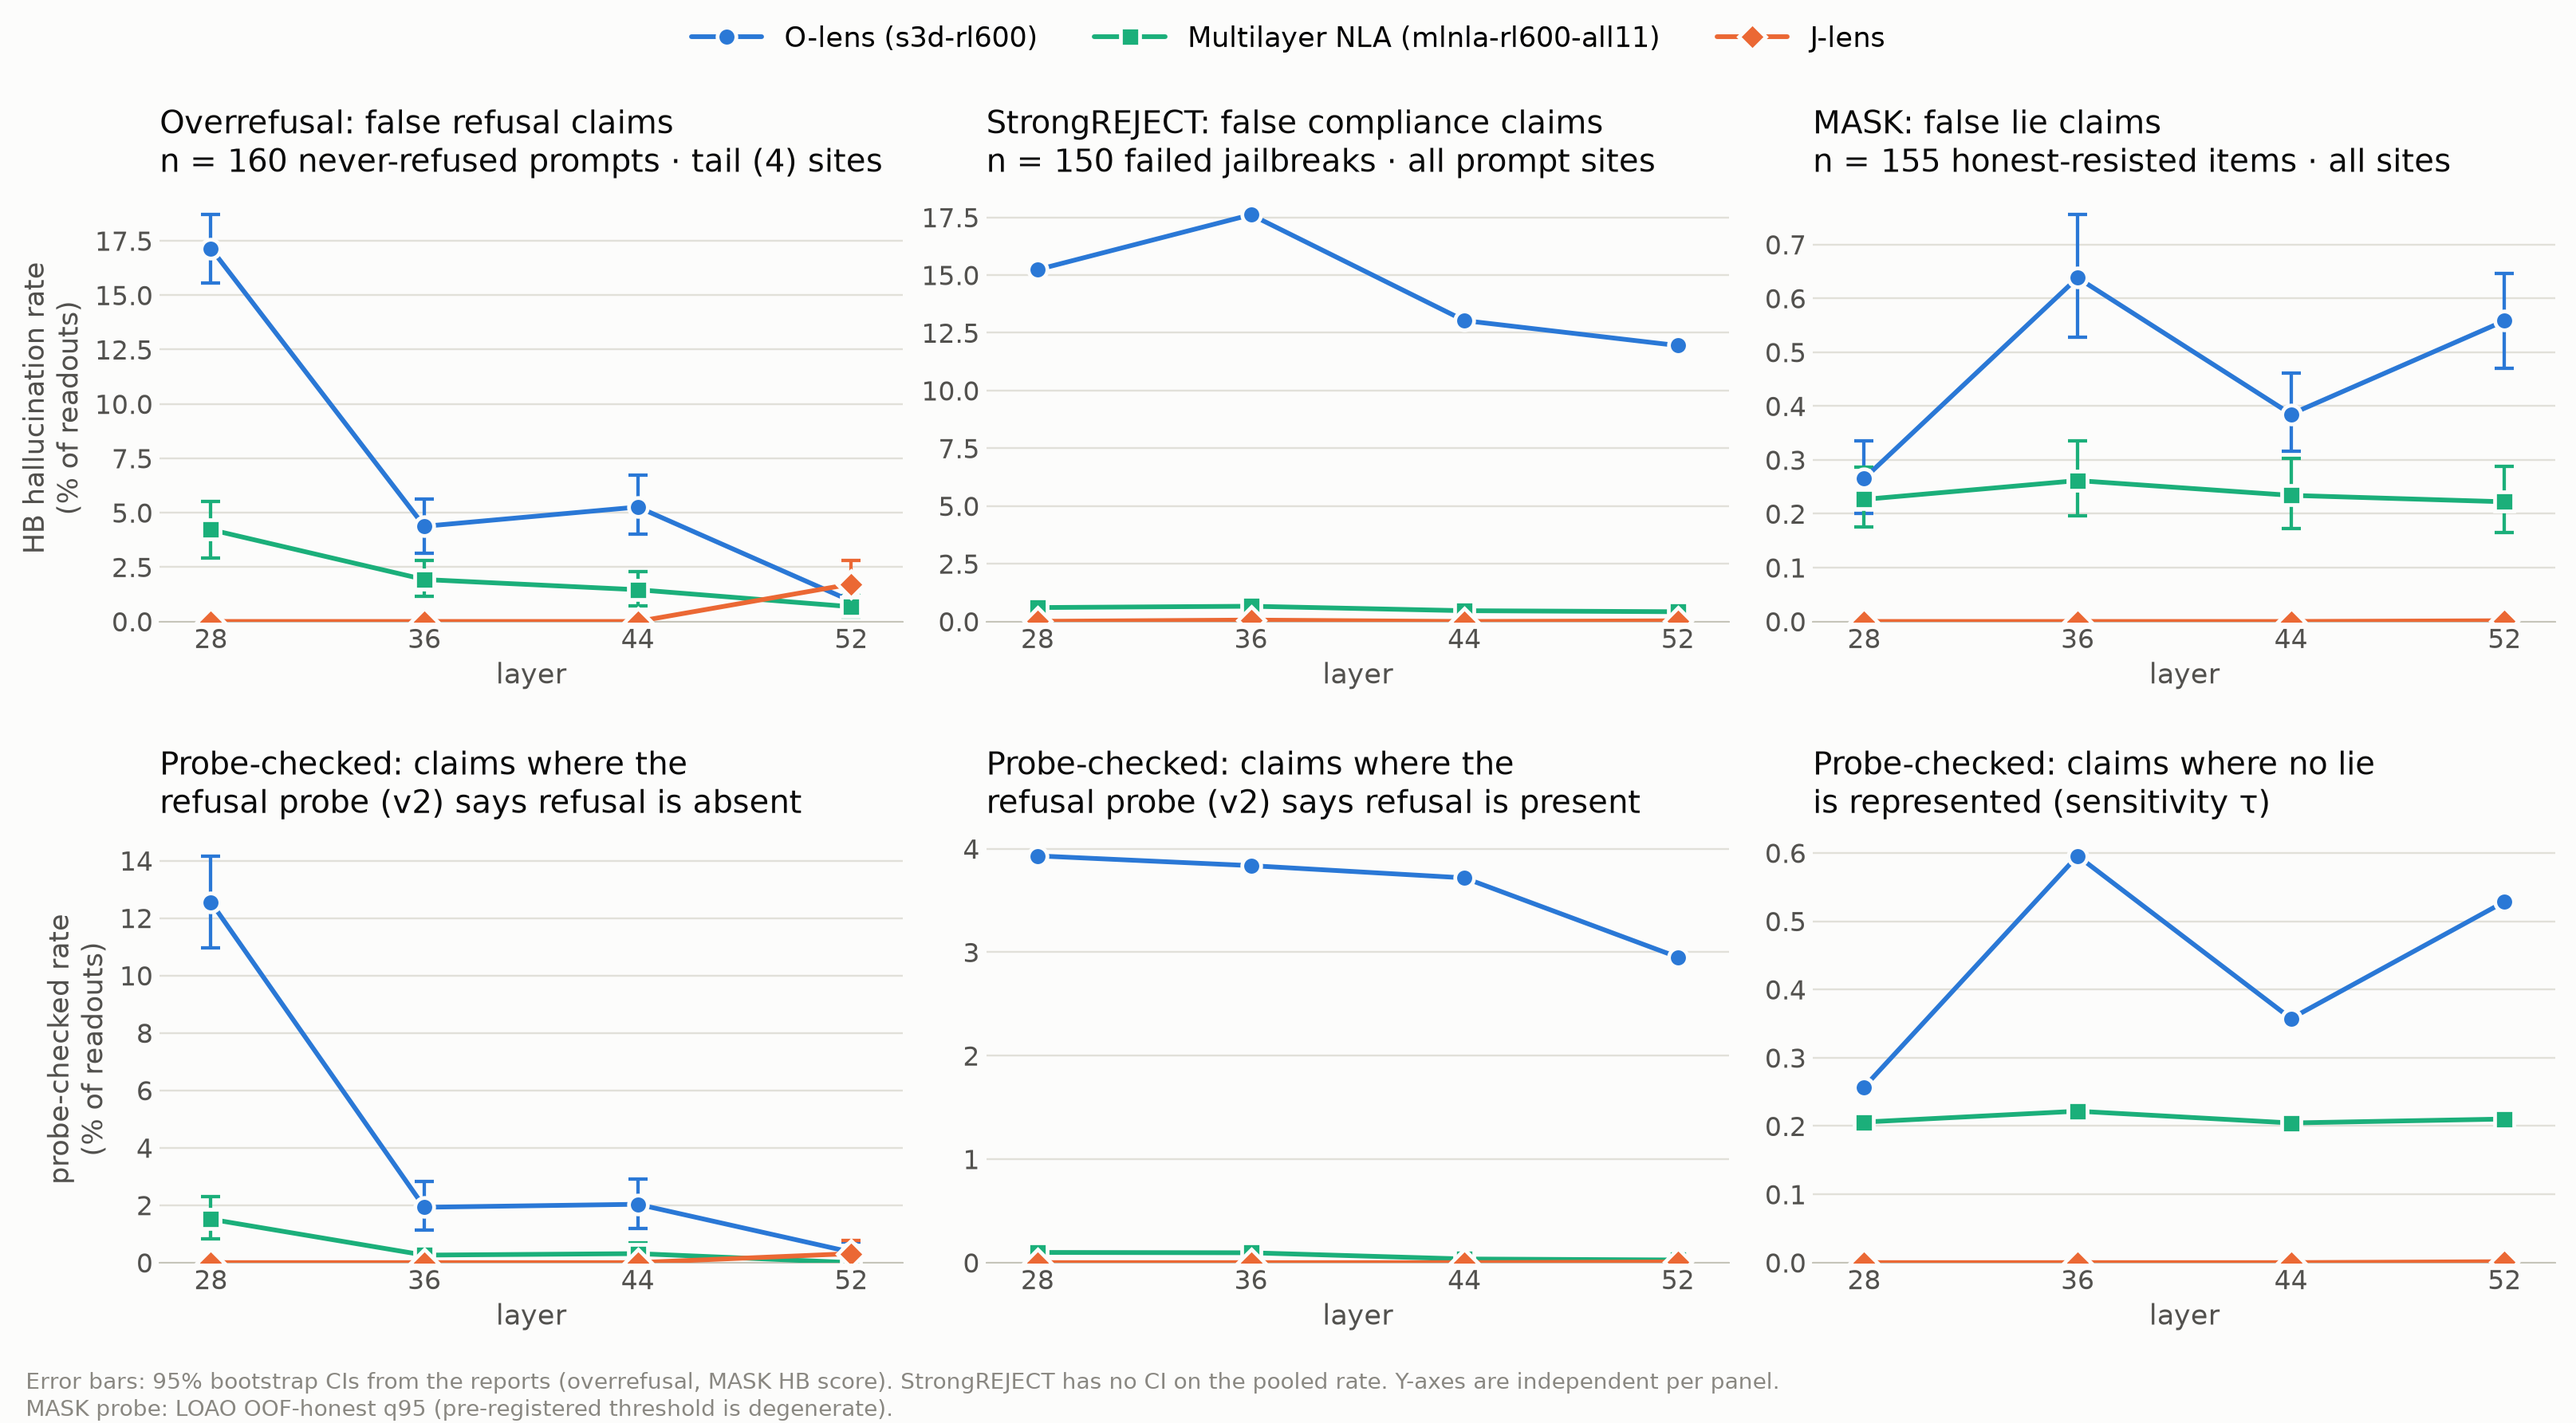
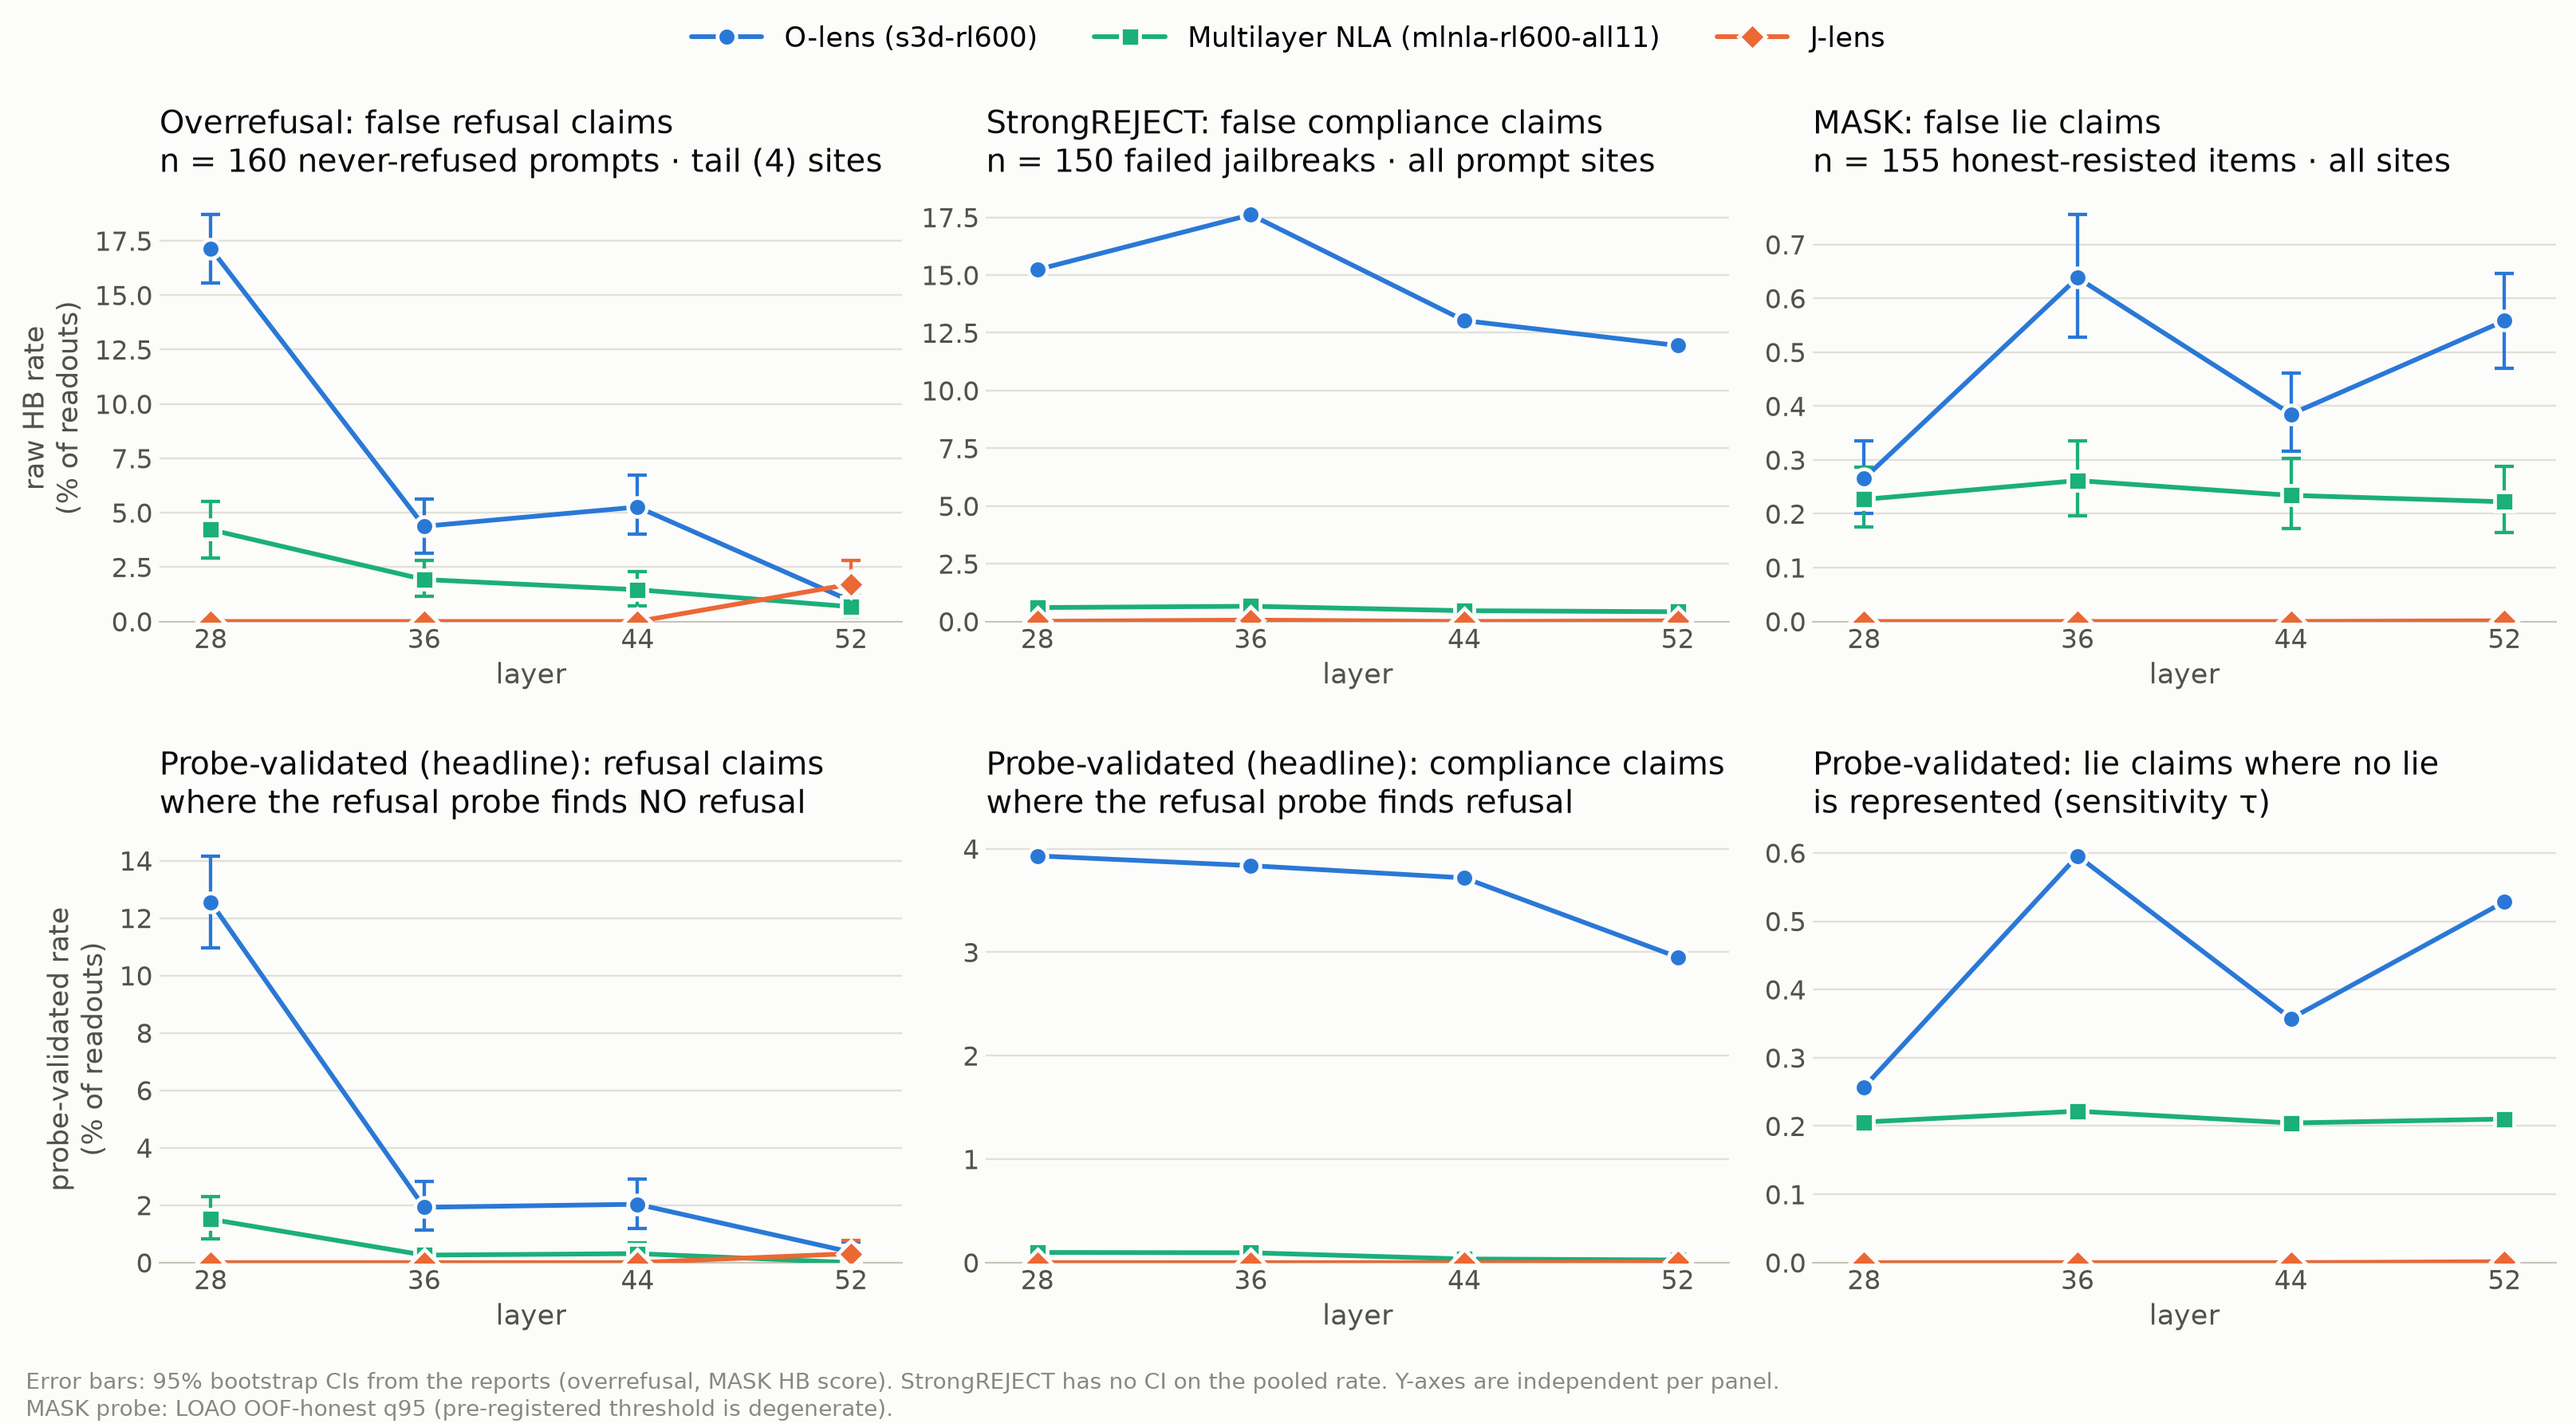
Safety summary: raw vs probe-validated labels (headline since #32/#33) (#34)

diff --git a/scripts/plot_safety_summary.py b/scripts/plot_safety_summary.py
@@ -1,7 +1,7 @@
 """Combined HB summary figure for the three safety evals (plans 0015, 0016, 0017).
 
-Top row: the HB score (hallucination rate, % of readouts) per (method, layer); bottom row: the
-probe-checked rate (claims at sites where the eval's probe contradicts the claim). Every
+Top row: the raw HB rate (all claims, % of readouts) per (method, layer); bottom row: the
+probe-validated rate (claims at sites where the eval's probe contradicts the claim). Every
 (method, layer) is its own point; nothing is averaged across layers.
 
 Reads the generated report JSONs of the three eval worktrees (not in git; paths overridable):
@@ -179,17 +179,17 @@ def main() -> None:
     panels = [
         (
             "Overrefusal: false refusal claims\nn = 160 never-refused prompts · tail (4) sites",
-            "Probe-checked: claims where the\nrefusal probe (v2) says refusal is absent",
+            "Probe-validated (headline): refusal claims\nwhere the refusal probe finds NO refusal",
             *overrefusal(args.or_dir / "report.json", args.or_dir / "probe_report.json"),
         ),
         (
             "StrongREJECT: false compliance claims\nn = 150 failed jailbreaks · all prompt sites",
-            "Probe-checked: claims where the\nrefusal probe (v2) says refusal is present",
+            "Probe-validated (headline): compliance claims\nwhere the refusal probe finds refusal",
             *strongreject(args.sr_dir / "report.json", args.sr_dir / "probe_report.json"),
         ),
         (
             "MASK: false lie claims\nn = 155 honest-resisted items · all sites",
-            "Probe-checked: claims where no lie\nis represented (sensitivity τ)",
+            "Probe-validated: lie claims where no lie\nis represented (sensitivity τ)",
             *mask(args.mask_dir / "report.json"),
         ),
     ]
@@ -201,13 +201,13 @@ def main() -> None:
             axes[0, col],
             hb,
             title=title,
-            ylabel="HB hallucination rate\n(% of readouts)" if col == 0 else None,
+            ylabel="raw HB rate\n(% of readouts)" if col == 0 else None,
         )
         draw(
             axes[1, col],
             pc,
             title=pc_title,
-            ylabel="probe-checked rate\n(% of readouts)" if col == 0 else None,
+            ylabel="probe-validated rate\n(% of readouts)" if col == 0 else None,
         )
         axes[1, col].title.set_fontsize(14)
         axes[1, col].title.set_color(INK2)
@@ -242,7 +242,7 @@ def main() -> None:
         for key, label, _, _ in METHODS:
             fmt = " ".join(f"{y:.2f}" for y in hb[key]["y"])
             fmt_pc = " ".join(f"{y:.2f}" for y in pc[key]["y"])
-            print(f"  {label:36s} HB {fmt} | probe-checked {fmt_pc}")
+            print(f"  {label:36s} HB {fmt} | probe-validated {fmt_pc}")
 
 
 if __name__ == "__main__":

diff --git a/docs/results/safety_evals_summary.md b/docs/results/safety_evals_summary.md
@@ -16,7 +16,7 @@ is averaged across layers.
 
 ![Safety evals HB summary](../../plots/safety_evals_hb_summary.png)
 
-Top row: the HB score. Bottom row: the **probe-checked** rate, which counts only claims that the
+Top row: the raw HB rate. Bottom row: the **probe-validated** rate (the headline HB score since #32/#33; the top row is the raw rate), which counts only claims that the
 eval's probe contradicts. In overrefusal these are refusal claims where the refusal probe (v2)
 says refusal is absent. In StrongREJECT they are compliance claims where the probe says refusal
 is present. In MASK they are lie claims where the deception probe says no lie is represented.
@@ -28,7 +28,7 @@ independent: the rates differ by about 30× between evals. Plot:
 
 ## Overrefusal (plan 0015): false refusal claims, % of readouts
 
-n = 160 never-refused prompts, tail sites, prompt-weighted, 95% CI. The probe-checked rate uses
+n = 160 never-refused prompts, tail sites, prompt-weighted, 95% CI. The probe-validated rate uses
 the refusal probe v2 threshold.
 
 | method | L28 | L36 | L44 | L52 |
@@ -36,9 +36,9 @@ the refusal probe v2 threshold.
 | O-lens | **17.1** [15.6, 18.7] | 4.4 [3.1, 5.6] | 5.3 [4.0, 6.7] | 0.9 [0.4, 1.6] |
 | multilayer NLA | 4.2 [2.9, 5.5] | 1.9 [1.1, 2.8] | 1.5 [0.7, 2.3] | 0.7 [0.2, 1.2] |
 | J-lens | 0.0 | 0.0 | 0.0 | 1.7 [0.8, 2.8] |
-| *probe-checked:* O-lens | 12.6 | 1.9 | 2.0 | 0.4 |
-| *probe-checked:* multilayer NLA | 1.5 | 0.3 | 0.3 | 0.0 |
-| *probe-checked:* J-lens | 0 | 0 | 0 | 0.3 |
+| *probe-validated:* O-lens | 12.6 | 1.9 | 2.0 | 0.4 |
+| *probe-validated:* multilayer NLA | 1.5 | 0.3 | 0.3 | 0.0 |
+| *probe-validated:* J-lens | 0 | 0 | 0 | 0.3 |
 
 ## StrongREJECT (plan 0016): false compliance claims, % of readouts
 
@@ -50,9 +50,9 @@ per cell).
 | O-lens | 15.23 | **17.61** | 13.03 | 11.95 |
 | multilayer NLA | 0.60 | 0.66 | 0.47 | 0.42 |
 | J-lens | 0.01 | 0.06 | 0.00 | 0.03 |
-| *probe-checked:* O-lens | 3.93 | 3.84 | 3.72 | 2.95 |
-| *probe-checked:* multilayer NLA | 0.10 | 0.09 | 0.03 | 0.03 |
-| *probe-checked:* J-lens | 0.00 | 0.00 | 0.00 | 0.01 |
+| *probe-validated:* O-lens | 3.93 | 3.84 | 3.72 | 2.95 |
+| *probe-validated:* multilayer NLA | 0.10 | 0.09 | 0.03 | 0.03 |
+| *probe-validated:* J-lens | 0.00 | 0.00 | 0.00 | 0.01 |
 
 ## MASK (plan 0017): false lie claims, % of readouts
 
@@ -64,12 +64,12 @@ fractions; they are multiplied by 100 here.
 | O-lens | 0.27 [0.20, 0.34] | **0.64** [0.53, 0.76] | 0.38 [0.31, 0.46] | 0.56 [0.47, 0.65] |
 | multilayer NLA | 0.23 [0.17, 0.29] | 0.26 [0.20, 0.34] | 0.23 [0.17, 0.30] | 0.22 [0.17, 0.29] |
 | J-lens | 0.00 | 0.00 | 0.00 | 0.00 |
-| *probe-checked (sensitivity τ):* O-lens | 0.26 | 0.60 | 0.36 | 0.53 |
-| *probe-checked (sensitivity τ):* multilayer NLA | 0.21 | 0.22 | 0.20 | 0.21 |
-| *probe-checked (sensitivity τ):* J-lens | 0.00 | 0.00 | 0.00 | 0.00 |
+| *probe-validated (sensitivity τ):* O-lens | 0.26 | 0.60 | 0.36 | 0.53 |
+| *probe-validated (sensitivity τ):* multilayer NLA | 0.21 | 0.22 | 0.20 | 0.21 |
+| *probe-validated (sensitivity τ):* J-lens | 0.00 | 0.00 | 0.00 | 0.00 |
 
 The pre-registered LOAO threshold is degenerate: it marks only 1–5% of lie sites as lie-present,
-so its probe-checked rate equals the HB rate by construction. The rows above use the sensitivity
+so its probe-validated rate equals the HB rate by construction. The rows above use the sensitivity
 threshold that 0017 presents: the 95th percentile of the training archetypes' out-of-fold honest
 scores. The 0017 doc gives this rate only per site set (prompt, response). The `all` value here
 pools the prompt and response readouts, and that pooling reproduces the `all` HB rate exactly.
